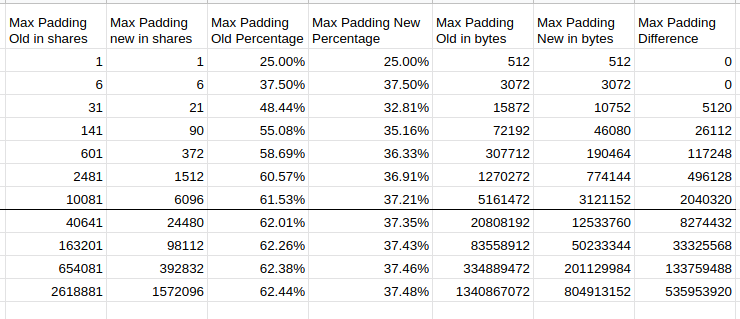
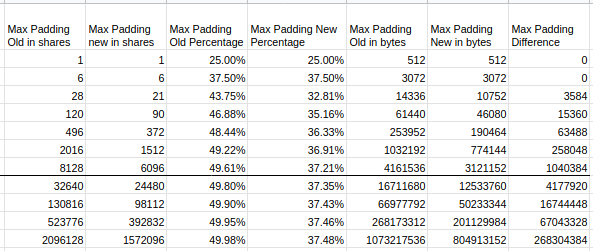
last commit pepehands

Changed region(s): [[0.0, 0.0558, 1.0, 1.0], [0.0, 0.0, 1.0, 0.0279]]

diff --git a/docs/architecture/adr-009-non-interactive-default-rules-for-reduced-padding.md b/docs/architecture/adr-009-non-interactive-default-rules-for-reduced-padding.md
@@ -10,8 +10,7 @@
 
 Current
 
-> - Messages that span multiple rows must begin at the start of a row (this can occur if a message is longer than k shares or if the block producer decides to start a message partway through a row and it cannot fit).
-> - Messages begin at a location aligned with the largest power of 2 that is not larger than the message length or k.
+> - Messages must begin at a location aligned with the largest power of 2 that is not larger than the message length or k. If the messages are larger than k, then they must start on a new row.
 
 Proposed
 
@@ -112,6 +111,7 @@ As H12 only exists in the bigger square the more efficient proofs only work in t
 ## 4. How big is the proof size for this message?
 
 We differentiate the size of the proof between the current non-interactive default rules and the proposed non-interactive default rules.
+For completion, we also included the scenario of k/4 to compare the proof size before and after even though the % gain is not that high.
 
 ### Current Non-Interactive Default Rules
 
@@ -126,6 +126,12 @@ Proof size = subtree roots (rows) + subtree roots (last row) + blue nodes (parit
 Proof size = (log(n) + log(k) + log(n)) \* NMT-Node size  + 2\*log(k) \* MT-Node size  
 Proof size = 48 \* (2\*log(n) + log(k)) + 64 \*log(k)
 
+### Current Non-Interactive Default Rules for k/4
+
+Proof size = subtree roots (rows) + subtree roots (last row) + blue nodes (parity shares) + 2 \* blue nodes (`DataRoot`)  
+Proof size = (k/4 + log(k) + k/4) \* NMT-Node size  + 2\*log(k) \* MT-Node size  
+Proof size = 48 \* (k/2 + log(k)) + 64 \*log(k)
+
 ### Proposed Non-Interactive Default Rules
 
 Each row consists of sqrt(n)/log(n) subtree roots. Which makes in total sqrt(n) subtree roots. The rest is here the same as before.
@@ -136,11 +142,16 @@ Proof size = subtree roots (all rows) + subtree roots (last row) + blue nodes (p
 Proof size = (sqrt(n) + log(k) + log(n)) \* NMT-Node size  + 2\*log(k) \* MT-Node size  
 Proof size = 48 \* (sqrt(n) + log(k) + log(n)) + 64 \*log(k)
 
+### Proposed Non-Interactive Default Rules for k/4
+
+Proof size = subtree roots (rows) + subtree roots (last row) + blue nodes (parity shares) + 2 \* blue nodes (`DataRoot`)  
+Proof size = (**k/2** + log(k) + k/4) \* NMT-Node size  + 2\*log(k) \* MT-Node size  
+Proof size = 48 \* (3k/4 + log(k)) + 64 \*log(k)
+
 ## 5. What is the worst constructible block with the most amount of padding with old and new non-interactive default rules?
 
-For the current non-interactive default rules, when you have a square size of k you can alternate messages of size k/2 +1 and k/4 +1 to have the most amount of padding. This forces you to always use a new row.
-
-Padding = (k/2 -1) \* (k/2 -1) + (3k/4 -1) \* (k/2 -1)
+For the current non-interactive default rules, when you have a square size of k the worst padding is to fill the square with messages of size k+1
+Padding = (k/2) \* (k -1)
 
 To have the most amount of padding for the proposed non-interactive default rules you use repeated messages of size 5 which will result in a padding of 3 in between.
 
@@ -150,11 +161,11 @@ Padding = 3 \* (k-1) \* k/8
 
 ## What is the quantified padding and proof size cost?
 
-Proof size increases from 2928 bytes to 10352 bytes in 2 GB blocks. In the current `MaxSquareSize` it's from 2096 to 3088 bytes. For bigger messages, the number of row roots will approach sqrt(n). Before that, we will get to k/4 roots which will make the message act the same before and after the proposed non-interactive default rules.
+Proof size increases from 2928 bytes to 10352 bytes in 2 GB blocks. In the current `MaxSquareSize` it's from 2096 to 3088 bytes. For bigger messages, the number of row roots will approach sqrt(n). Before that, we will get to k/4+1 roots which will make the message act the same before and after the proposed non-interactive default rules.
 
 ![Proof Size Result](./assets/proof-size-result.png)
 
-The worst-case padding decreases from 1.3 GB to 0.8 GB in 2 GB Blocks. In the current `MaxSquareSize` it's from 5 MB to 3 MB. In general, the worst-case padding size approaches in current non-interactive default rules 66% and the proposed non-interactive default rules 37.5%. That is a reduction of almost 50%.
+The worst-case padding decreases from 1.1 GB to 0.8 GB in 2 GB Blocks. In the current `MaxSquareSize` it's from 4 MB to 3 MB. In general, the worst-case padding size approaches in current non-interactive default rules 50% and the proposed non-interactive default rules 37.5%. That is a maximum reduction of padding to 25%.
 
 ![Padding Size Result](./assets/padding-size-result.png)
 
